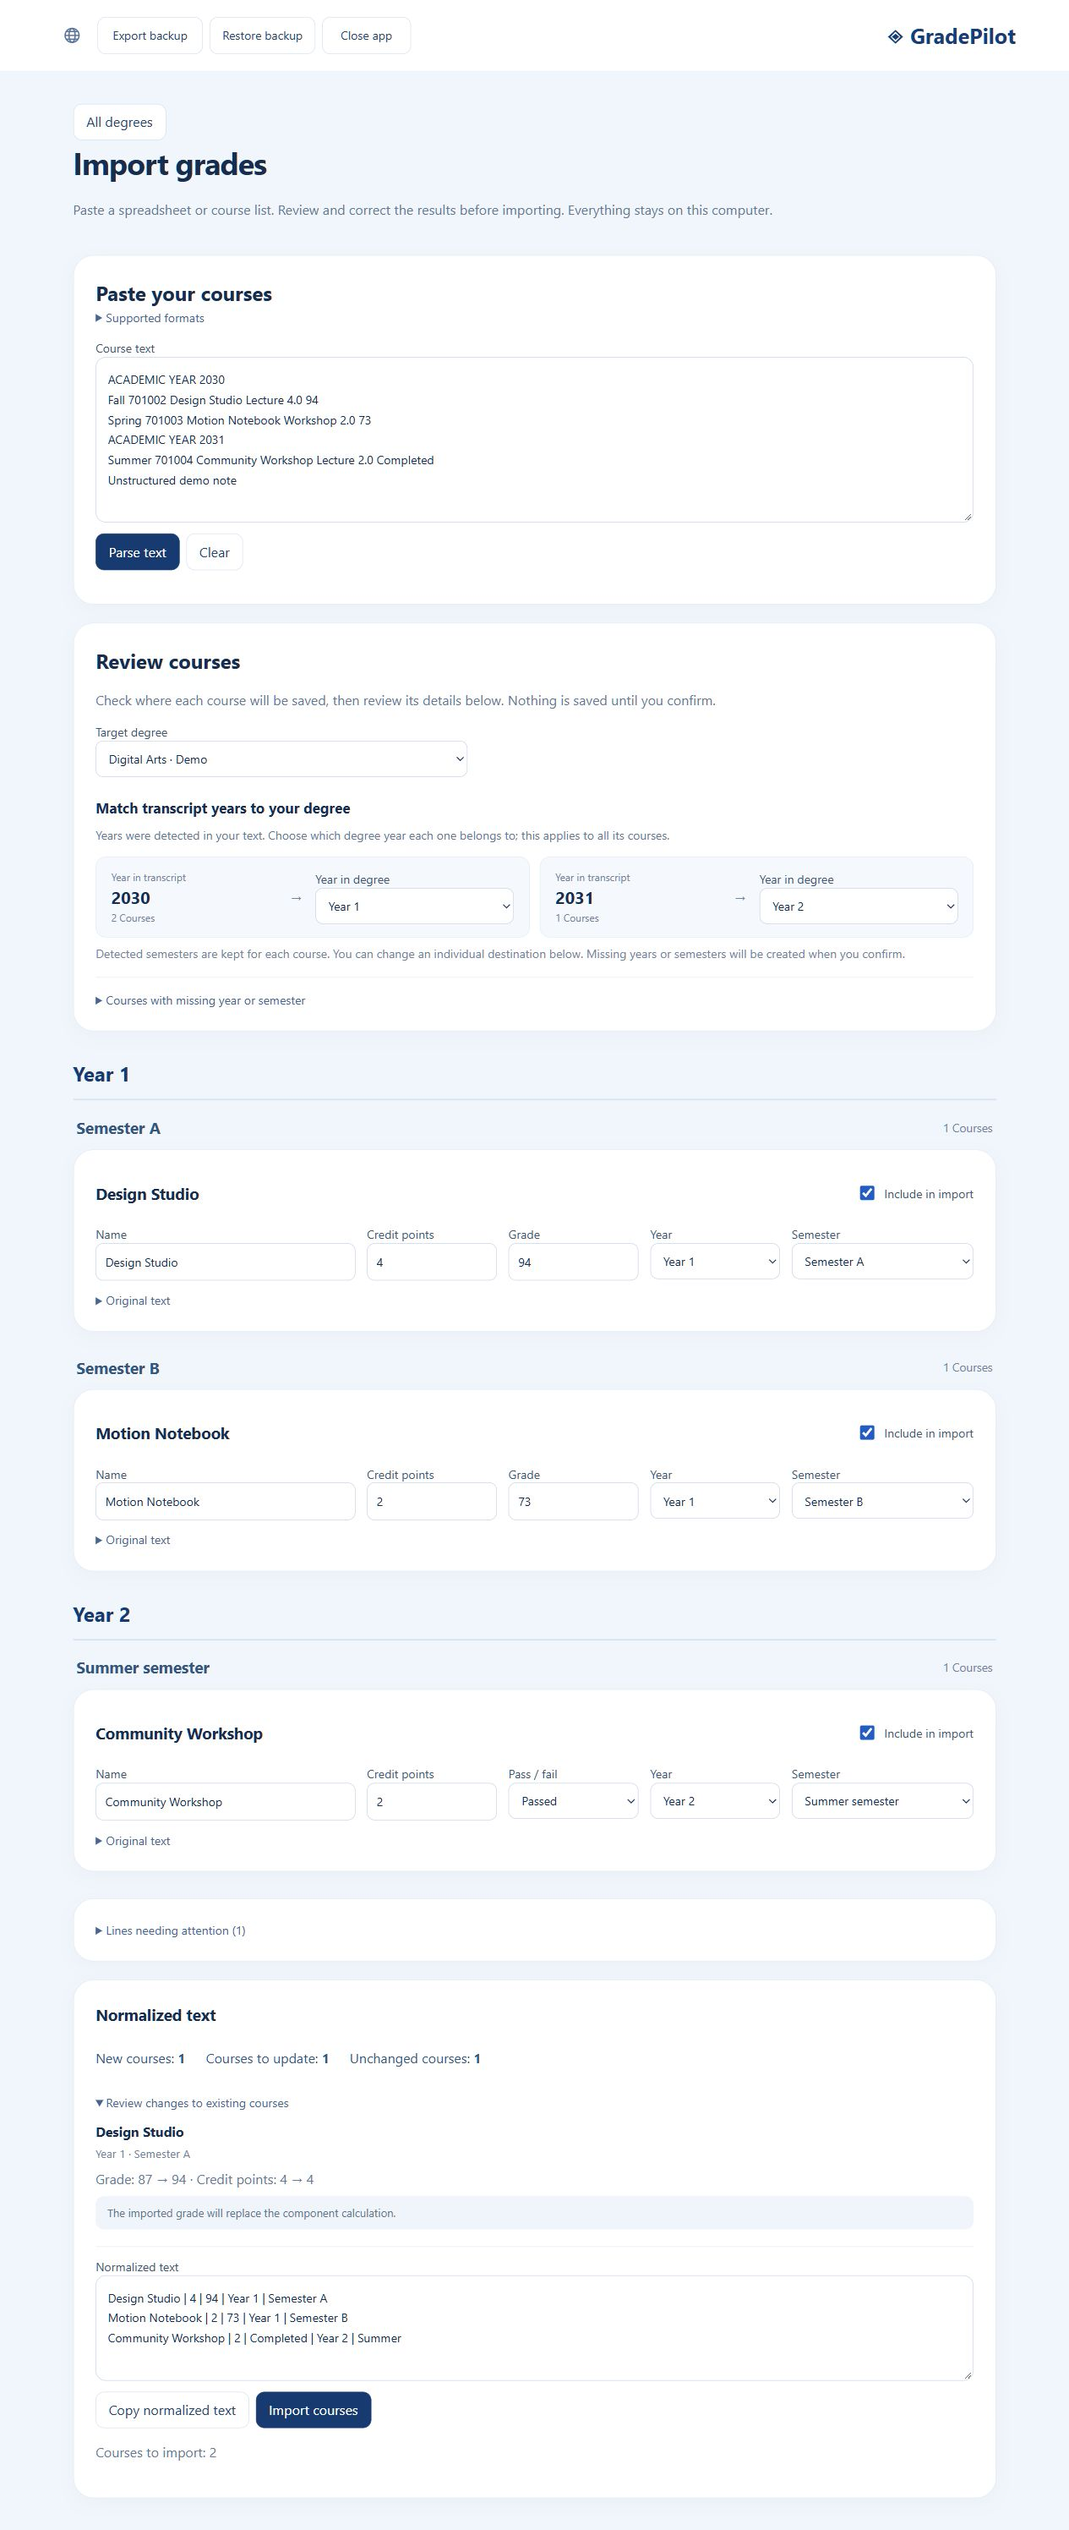
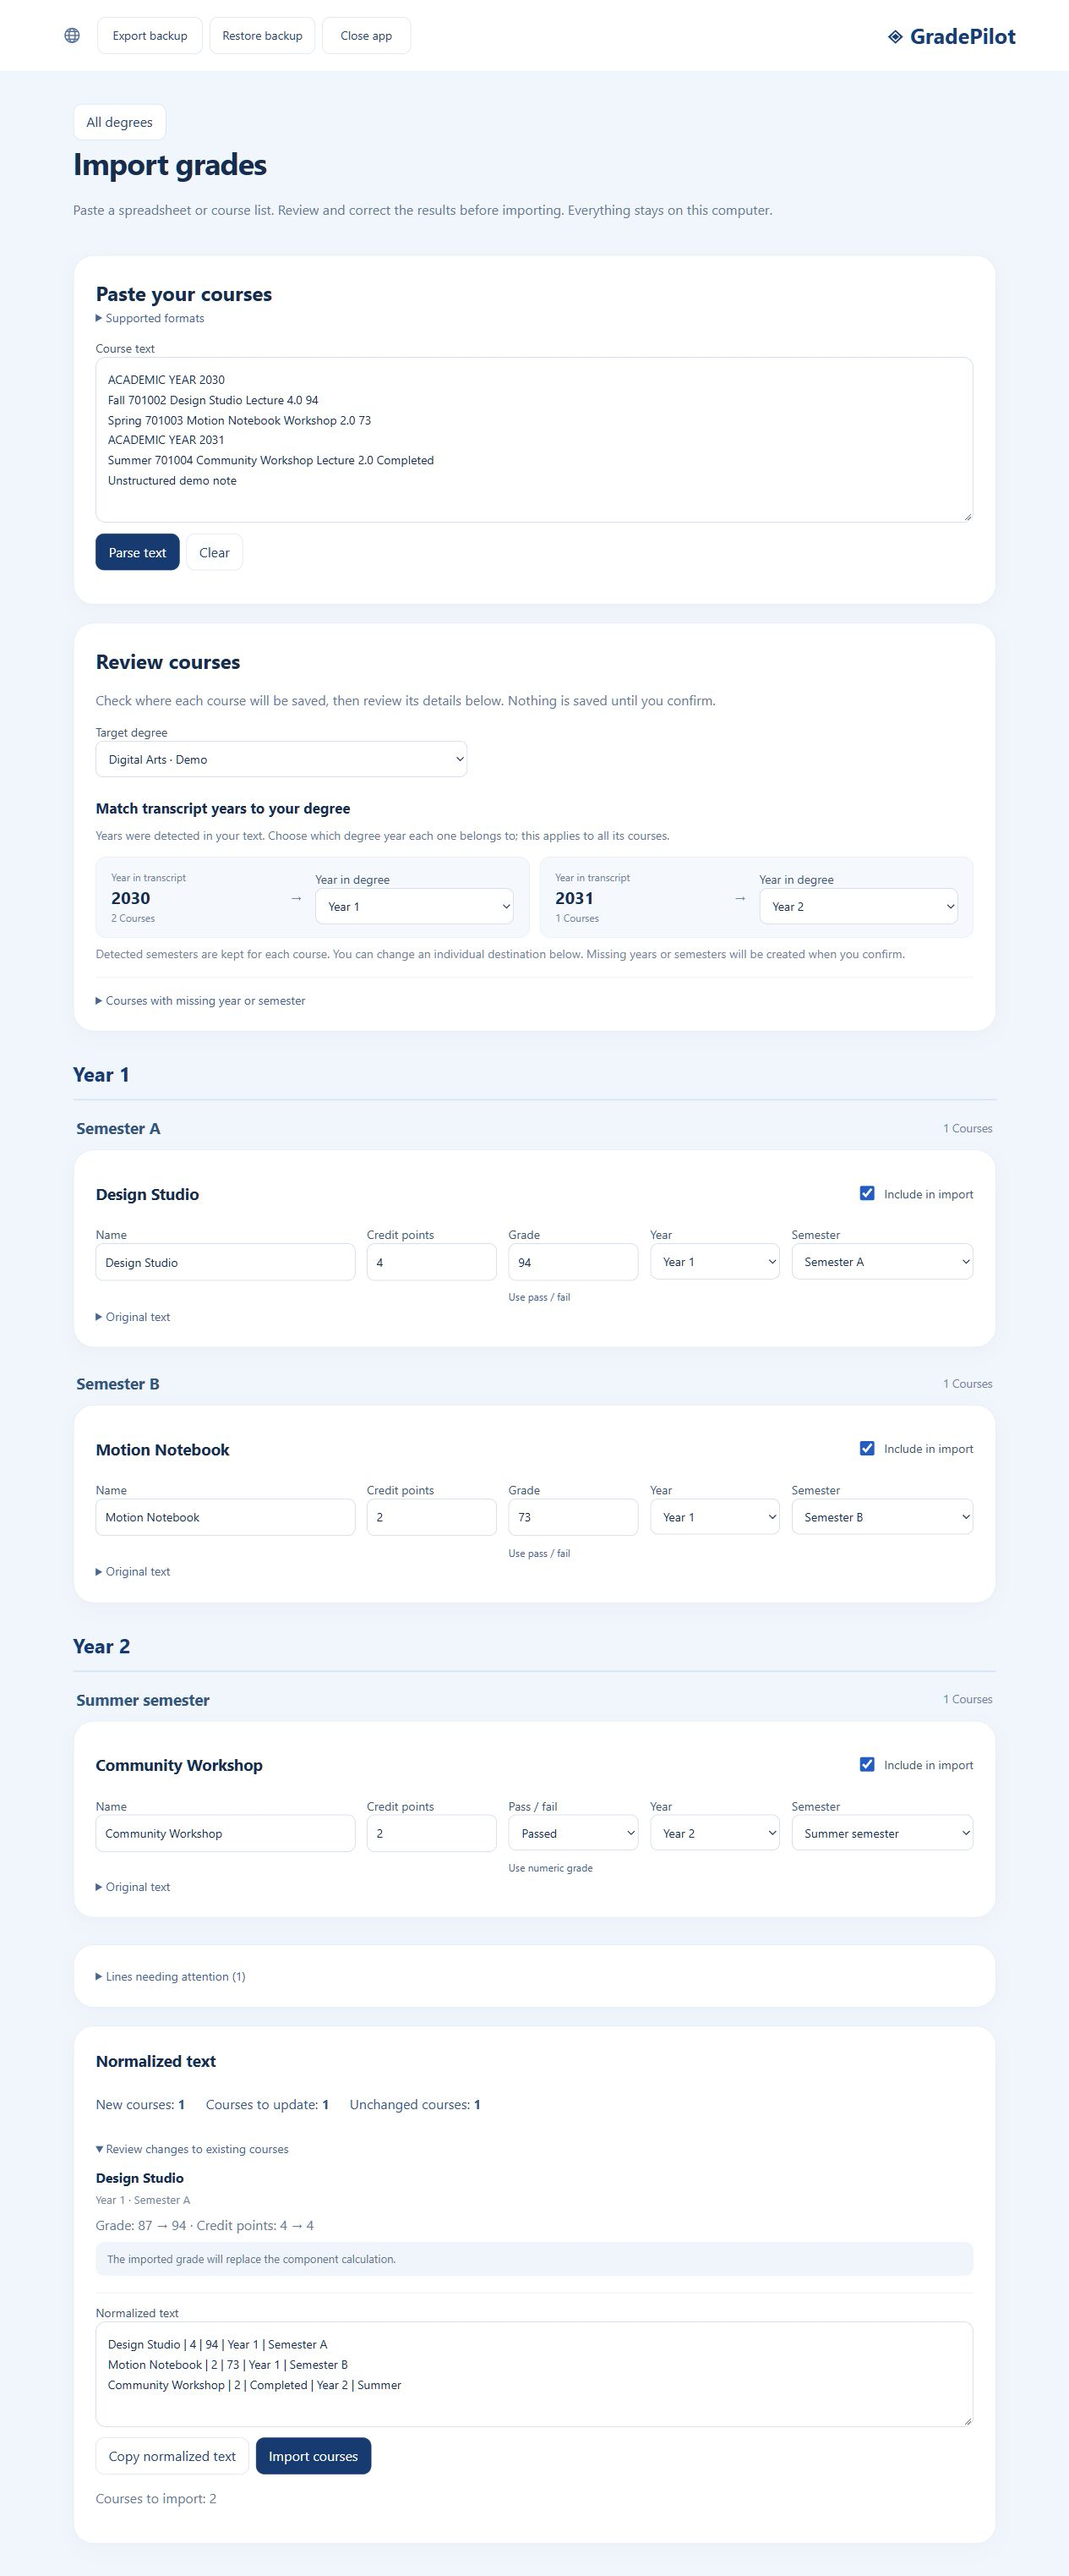
Allow reversible grading mode switches on individual import cards

diff --git a/src/DegreeGradeCalculator/wwwroot/text-import.js b/src/DegreeGradeCalculator/wwwroot/text-import.js
@@ -173,6 +173,10 @@ Object.assign(words.he, {
 });
 let importDraft = null,
   previewSequence = 0;
+words.en.switchToBinary = "Use pass / fail";
+words.en.switchToNumeric = "Use numeric grade";
+words.he.switchToBinary = "מעבר לעובר / נכשל";
+words.he.switchToNumeric = "מעבר לציון מספרי";
 words.en.acceptBlankGrade = "Leave grade blank";
 words.he.acceptBlankGrade = "השארת הציון ריק";
 Object.assign(words.en, { addedCourses: "New courses", updatedCourses: "Courses to update", unchangedCourses: "Unchanged courses", updateDetails: "Review changes to existing courses", alreadyCurrent: "These courses are already up to date. Nothing needs to be imported.", repeatedRows: "Repeated rows in this draft use the last included occurrence.", replacesComponents: "The imported grade will replace the component calculation.", mergesDuplicates: "Existing duplicate entries will be merged into one course.", "import-changed": "Saved courses changed after review. Close this confirmation and review the import again." });
@@ -253,7 +257,7 @@ function groupedReviewCards() {
   ).join("");
 }
 function reviewCard(row, i) {
-  return `<article class="card import-row ${row.warnings.length ? "uncertain" : ""}" data-row="${i}"><div class="import-row-head"><h3 data-row-title>${esc(row.name || t("courses"))}</h3><label class="include-row"><input type="checkbox" data-field="included" ${row.included ? "checked" : ""}>${t("includeRow")}</label></div><div class="import-fields">${label(t("name"), `<input data-field="name" value="${esc(row.name)}" required maxlength="200">`)}${label(t("creditPoints"), `<input data-field="credits" type="number" min="0.01" max="1000" step="any" required value="${esc(row.credits ?? "")}">`)}${row.passed != null ? label(t("binary"), `<select data-field="passed"><option value="true" ${row.passed ? "selected" : ""}>${t("passed")}</option><option value="false" ${!row.passed ? "selected" : ""}>${t("failed")}</option><option value="numeric">${t("direct")}</option></select>`) : label(t("grade"), `<input data-field="grade" type="number" min="0" max="100" step="any" value="${esc(row.grade ?? "")}">`)}${label(t("year"), `<select data-field="year">${yearOptions(row.year, true)}</select>`)}${label(t("semester"), `<select data-field="semester">${semesterOptions(row.year, row.semester, true)}</select>`)}</div><div class="row-validation" aria-live="polite"></div>${row.invalidGradeUnresolved ? button("acceptBlankGrade", t("acceptBlankGrade"), `data-row-index="${i}"`) : ""}${row.warnings.map((w) => `<p class="import-note" data-warning="${w}">${esc(t(w))}${["invalid-credits", "invalid-grade", "unknown-year", "unknown-semester"].includes(w) ? ` <span dir="auto">(${esc(row.rawValues?.[{ "invalid-credits": "credits", "invalid-grade": "grade", "unknown-year": "year", "unknown-semester": "semester" }[w]] || "")})</span>` : ""}</p>`).join("")}<details><summary>${t("sourceLine")}</summary><pre>${esc(row.originalLine)}</pre></details></article>`;
+  return `<article class="card import-row ${row.warnings.length ? "uncertain" : ""}" data-row="${i}"><div class="import-row-head"><h3 data-row-title>${esc(row.name || t("courses"))}</h3><label class="include-row"><input type="checkbox" data-field="included" ${row.included ? "checked" : ""}>${t("includeRow")}</label></div><div class="import-fields">${label(t("name"), `<input data-field="name" value="${esc(row.name)}" required maxlength="200">`)}${label(t("creditPoints"), `<input data-field="credits" type="number" min="0.01" max="1000" step="any" required value="${esc(row.credits ?? "")}">`)}<div class="import-grade-field">${row.passed != null ? label(t("binary"), `<select data-field="passed"><option value="true" ${row.passed ? "selected" : ""}>${t("passed")}</option><option value="false" ${!row.passed ? "selected" : ""}>${t("failed")}</option></select>`) : label(t("grade"), `<input data-field="grade" type="number" min="0" max="100" step="any" value="${esc(row.grade ?? "")}">`)}${button("toggleImportGradeMode", t(row.passed != null ? "switchToNumeric" : "switchToBinary"), `class="grade-mode-toggle" data-row-index="${i}" aria-pressed="${row.passed != null}"`)}</div>${label(t("year"), `<select data-field="year">${yearOptions(row.year, true)}</select>`)}${label(t("semester"), `<select data-field="semester">${semesterOptions(row.year, row.semester, true)}</select>`)}</div><div class="row-validation" aria-live="polite"></div>${row.invalidGradeUnresolved ? button("acceptBlankGrade", t("acceptBlankGrade"), `data-row-index="${i}"`) : ""}${row.warnings.map((w) => `<p class="import-note" data-warning="${w}">${esc(t(w))}${["invalid-credits", "invalid-grade", "unknown-year", "unknown-semester"].includes(w) ? ` <span dir="auto">(${esc(row.rawValues?.[{ "invalid-credits": "credits", "invalid-grade": "grade", "unknown-year": "year", "unknown-semester": "semester" }[w]] || "")})</span>` : ""}</p>`).join("")}<details><summary>${t("sourceLine")}</summary><pre>${esc(row.originalLine)}</pre></details></article>`;
 }
 function importRequest(confirmed = false) {
   return {
@@ -367,7 +371,7 @@ $("#app").addEventListener("input", (event) => {
   if (card && el.dataset.field) {
     const row = importDraft.rows[Number(card.dataset.row)],
       field = el.dataset.field;
-    if (field === "passed") { row.passed = el.value === "numeric" ? null : el.value === "true"; row.grade = null; renderTextImport(); return; }
+    if (field === "passed") { row.passed = el.value === "true"; row.savedPassed = row.passed; row.grade = null; validateReview(); refreshImportPreview(); return; }
     row[field] =
       field === "included"
         ? el.checked
@@ -483,6 +487,20 @@ $("#app").addEventListener("click", async (event) => {
         invalidGradeUnresolved:
           c.grade === null && c.warnings.includes("invalid-grade"),
       }));
+      renderTextImport();
+    } else if (action === "toggleImportGradeMode") {
+      const row = importDraft.rows[Number(button.dataset.rowIndex)];
+      if (row.passed != null) {
+        row.savedPassed = row.passed;
+        row.passed = null;
+        row.grade = row.savedNumericGrade ?? null;
+      } else {
+        row.savedNumericGrade = row.grade;
+        row.passed = row.savedPassed ?? true;
+        row.grade = null;
+        row.invalidGradeUnresolved = false;
+        row.warnings = row.warnings.filter(w => w !== "invalid-grade");
+      }
       renderTextImport();
     } else if (action === "acceptBlankGrade") {
       const row = importDraft.rows[Number(button.dataset.rowIndex)];

diff --git a/src/DegreeGradeCalculator/wwwroot/text-import.css b/src/DegreeGradeCalculator/wwwroot/text-import.css
@@ -132,3 +132,6 @@ details summary {
 .fallback-destinations { border-top: 1px solid #e0e8f3; padding-top: 16px; margin-top: 18px; }
 .fallback-fields { display: grid; grid-template-columns: repeat(2, minmax(0, 1fr)); gap: 16px; max-width: 600px; }
 @media (max-width: 650px) { .calendar-grid, .fallback-fields { grid-template-columns: 1fr; } }
+.import-grade-field label { margin-bottom: 6px; }
+.grade-mode-toggle { padding: 3px 0; border: 0; border-radius: 4px; background: transparent; font-size: 12px; color: #476590; text-align: start; }
+.grade-mode-toggle:hover { background: transparent; color: #245dc1; text-decoration: underline; }

diff --git a/README.md b/README.md
@@ -46,7 +46,7 @@ Hebrew and English academic transcripts are also supported: `שנת לימודי
 
 This is a conservative local heuristic parser, not arbitrary natural-language understanding. Uncertain values retain their original text and warnings; unsupported rows appear once in an expandable section and can become manual review cards. An advanced column-mapping fallback appears when needed. Unknown destinations can use defaults; missing years and standard semesters (A, B, Summer) are created only after confirmed import. Reimporting the same course in the same year and semester leaves identical data unchanged. Changed credits or grades update the existing course only after a final confirmation showing the old and new values. Courses in other semesters remain separate, and courses absent from the import are preserved. If the paste repeats a course in one destination, the last included row wins. Existing component grades are preserved when their final grade matches; replacing a different component grade is explicitly flagged in the confirmation. The read-only normalized preview can be copied. Limits: 50,000 characters and 1,000 non-empty lines per paste.
 
-Transcript course types include lectures, seminars and workshops. "Completed" and "השלים חובותיו" are imported as binary Passed grades: their credits count toward progress, while they stay out of numeric averages and grade distributions. "טרם" and "No grade" remain ungraded. Passed/Failed can also be selected in the course editor. Missing credits still require correction.
+Transcript course types include lectures, seminars and workshops. "Completed" and "השלים חובותיו" are imported as binary Passed grades: their credits count toward progress, while they stay out of numeric averages and grade distributions. "טרם" and "No grade" remain ungraded. Each import card has a toggle between numeric and pass/fail grading. Switching back restores the previous number or pass/fail choice on that card without changing other courses. Passed/Failed can also be selected in the course editor. Missing credits still require correction.
 
 ## Developers
 

diff --git a/VERIFICATION.md b/VERIFICATION.md
@@ -31,3 +31,5 @@ Release refresh verification: the complete executable and assets were republishe
 Screenshot gallery replaced again after framing review: nine English-only captures, including English degree names and transcript text. Every image was visually inspected. Long degree, simulation, and import screens use full-page captures, with complete cards and actions; dialogs show all fields and buttons. No personal grades or mixed-language examples appear in the gallery.
 
 Import destination controls verified: target degree stands alone; fallback year and semester are collapsed when all destinations are detected and expanded for missing data. A multi-semester transcript keeps A, B, and Summer when fallback year changes. Calendar-year cards distinguish transcript year from degree year. Current English import screenshots recaptured.
+
+Import grade-mode toggle verified in the browser: Passed to numeric 86 to Failed to numeric restores 86, then back to binary restores Failed. Another numeric row toggled to binary and back retains 94; neighboring grade 73 and all destinations remain unchanged. Preview and final confirmation reflect only active grading values. English import screenshots refreshed.
